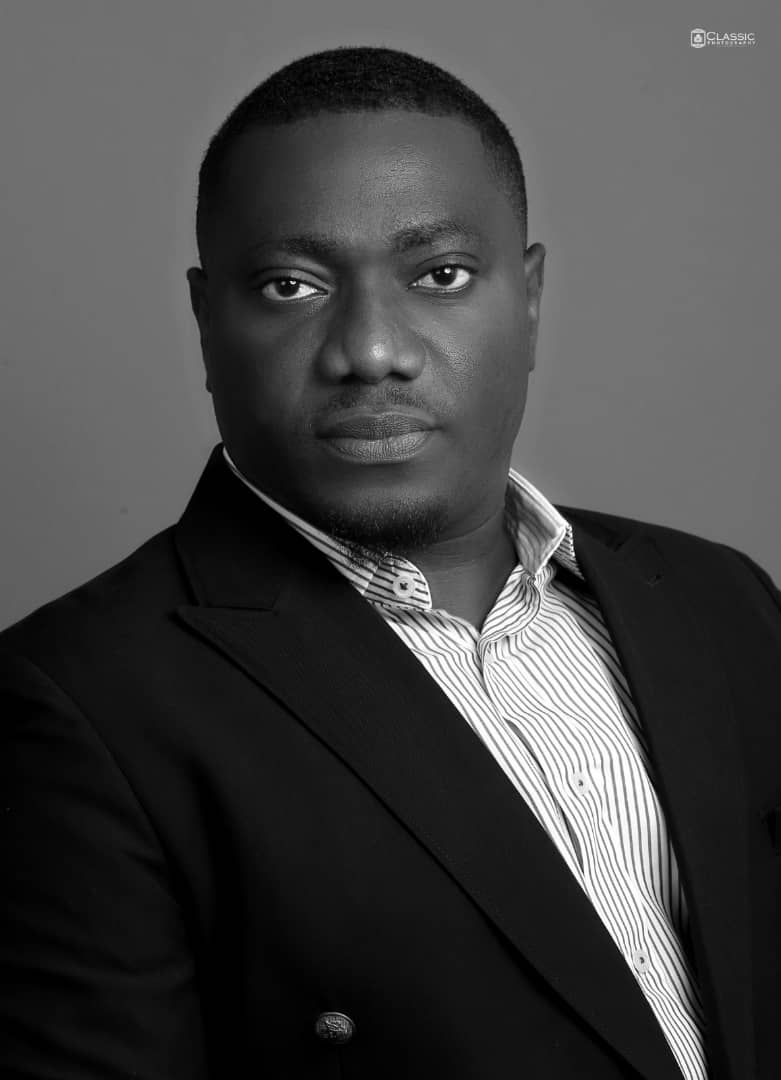
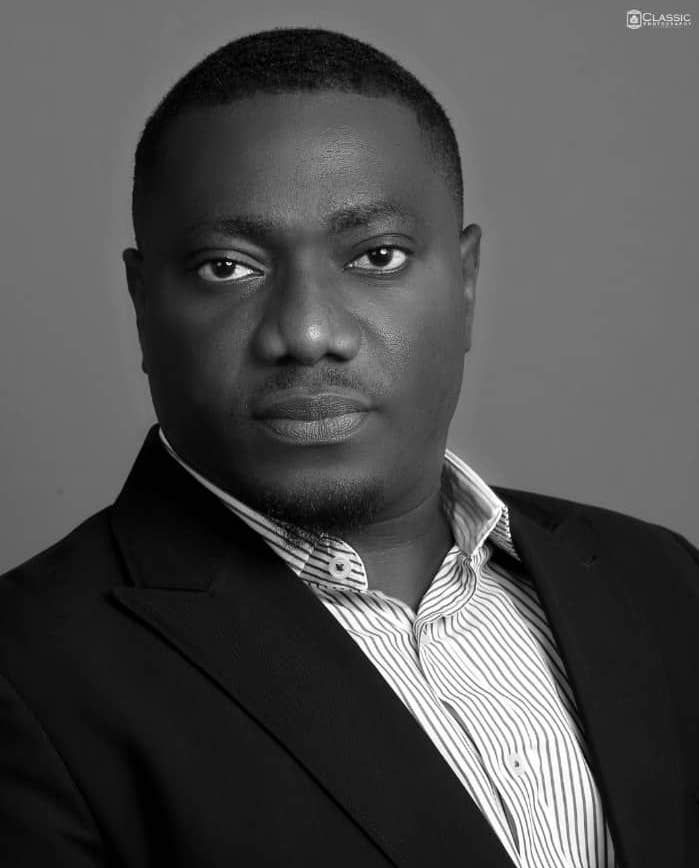
ope bio page added

diff --git a/opeadeniyi.htm b/opeadeniyi.htm
@@ -1,0 +1,76 @@
+<!DOCTYPE html>
+<html lang="en">
+
+<head>
+    <meta charset="UTF-8">
+    <meta name="viewport" content="width=device-width, initial-scale=1.0">
+    <meta http-equiv="X-UA-Compatible" content="ie=edge">
+    <link href="https://unpkg.com/aos@2.3.1/dist/aos.css" rel="stylesheet">
+    <link rel="stylesheet" href="https://stackpath.bootstrapcdn.com/font-awesome/4.7.0/css/font-awesome.min.css"
+        integrity="sha384-wvfXpqpZZVQGK6TAh5PVlGOfQNHSoD2xbE+QkPxCAFlNEevoEH3Sl0sibVcOQVnN" crossorigin="anonymous">
+    <link rel="stylesheet" href="https://stackpath.bootstrapcdn.com/bootstrap/4.5.2/css/bootstrap.min.css"
+        integrity="sha384-JcKb8q3iqJ61gNV9KGb8thSsNjpSL0n8PARn9HuZOnIxN0hoP+VmmDGMN5t9UJ0Z" crossorigin="anonymous">
+    <link rel="stylesheet" href="https://cdnjs.cloudflare.com/ajax/libs/ekko-lightbox/5.3.0/ekko-lightbox.css"
+        integrity="sha512-Velp0ebMKjcd9RiCoaHhLXkR1sFoCCWXNp6w4zj1hfMifYB5441C+sKeBl/T/Ka6NjBiRfBBQRaQq65ekYz3UQ=="
+        crossorigin="anonymous" />
+    <link rel="stylesheet" href="./style.css">
+    <title>Opeoluwa Adeniyi</title>
+</head>
+
+<body>
+    <div class="arrow">
+        <a href="#"> <i class="fa fa-arrow-up fa-2x"></i>
+        </a>
+    </div>
+    <div class="menu-wrap ">
+        <input type="checkbox" class="toggler">
+        <div class="hamburger">
+            <div></div>
+        </div>
+        <div class="menu">
+            <div>
+                <div>
+                    <ul>
+                        <li><a href="./index.htm">Home</a></li>
+                        <li><a href="./contact.htm">Contact Info</a></li>
+                        <li><a href="./appointment.htm">Book an appointment</a></li>
+                    </ul>
+                </div>
+            </div>
+        </div>
+    </div>
+
+    <nav class="navbar">
+        <logo class="logo">
+            <a href="index.htm"> <img src="./images/IMG_3580.PNG" alt="logo" width="200" height="100"></a>
+        </logo>
+        <div>
+            <ul>
+                <li><a href="./index.htm">Home</a></li>
+                <li><a href="./contact.htm">Contact Info</a></li>
+                <li><a href="./appointment.htm">Book an appointment</a></li>
+            </ul>
+        </div>
+    </nav>
+
+    <section class="ope">
+        <div>
+            <img src="./ope/PHOTO-2020-11-09-21-30-58.jpg" alt="">
+        </div>
+
+        <div class="about-ope">
+            Lorem ipsum dolor sit amet consectetur adipisicing elit. Quas voluptate, temporibus nesciunt enim labore
+            fuga odit odio ipsum doloremque, quos impedit optio dolores consectetur a tempora sit eveniet praesentium
+            vel officiis commodi, quasi explicabo assumenda! Officiis quo nam nihil inventore at harum, quisquam illum
+            laudantium tenetur alias aliquid suscipit. Expedita nemo laborum quam, doloribus incidunt, inventore enim
+            totam nam deleniti aut beatae! Consectetur ipsam eaque sapiente nesciunt repellendus debitis totam!
+            <div class="ope-social-networks">
+                <i class="fa fa-instagram fa-2x"></i>
+                <i class="fa fa-twitter fa-2x"></i>
+                <i class="fa fa-facebook fa-2x"></i>
+            </div>
+        </div>
+    </section>
+
+
+</body>

diff --git a/style.css b/style.css
@@ -577,3 +577,48 @@ footer {
   margin-top: 20px;
   padding: 10px;
 }
+
+.ope {
+  width: 100%;
+  margin-top: 30px;
+  padding: 20px;
+  display: flex;
+  flex-direction: row;
+  justify-content: center;
+  align-items: center;
+  text-align: center;
+}
+
+.ope img {
+  object-fit: cover;
+  margin-left: 100px;
+}
+
+.ope .about-ope {
+  padding: 50px;
+}
+
+.ope-social-networks .fa {
+  padding: 10px;
+}
+
+.ope-social-networks .fa:hover {
+  color: grey;
+  cursor: pointer;
+  transition: all 0.3s ease-in-out;
+}
+
+@media(max-width:500px) {
+  .ope {
+    display: flex;
+    flex-direction: column;
+  }
+
+  .ope img {
+    object-fit: cover;
+    margin: auto;
+    width: 100px;
+    height: 100%;
+    border-radius: 10px;
+  }
+}

diff --git a/index.htm b/index.htm
@@ -82,7 +82,7 @@
                 ullam atque quam itaque ducimus illo dolor, facere eveniet. Temporibus aperiam in nobis enim voluptatum
                 beatae dolore atque saepe aut et?
             </p>
-            <a href="./gallery.htm" class="btn">Click to View Ope</a>
+            <a href="./opeadeniyi.htm" class="btn">Click to View Ope</a>
         </div>
     </section>
 
